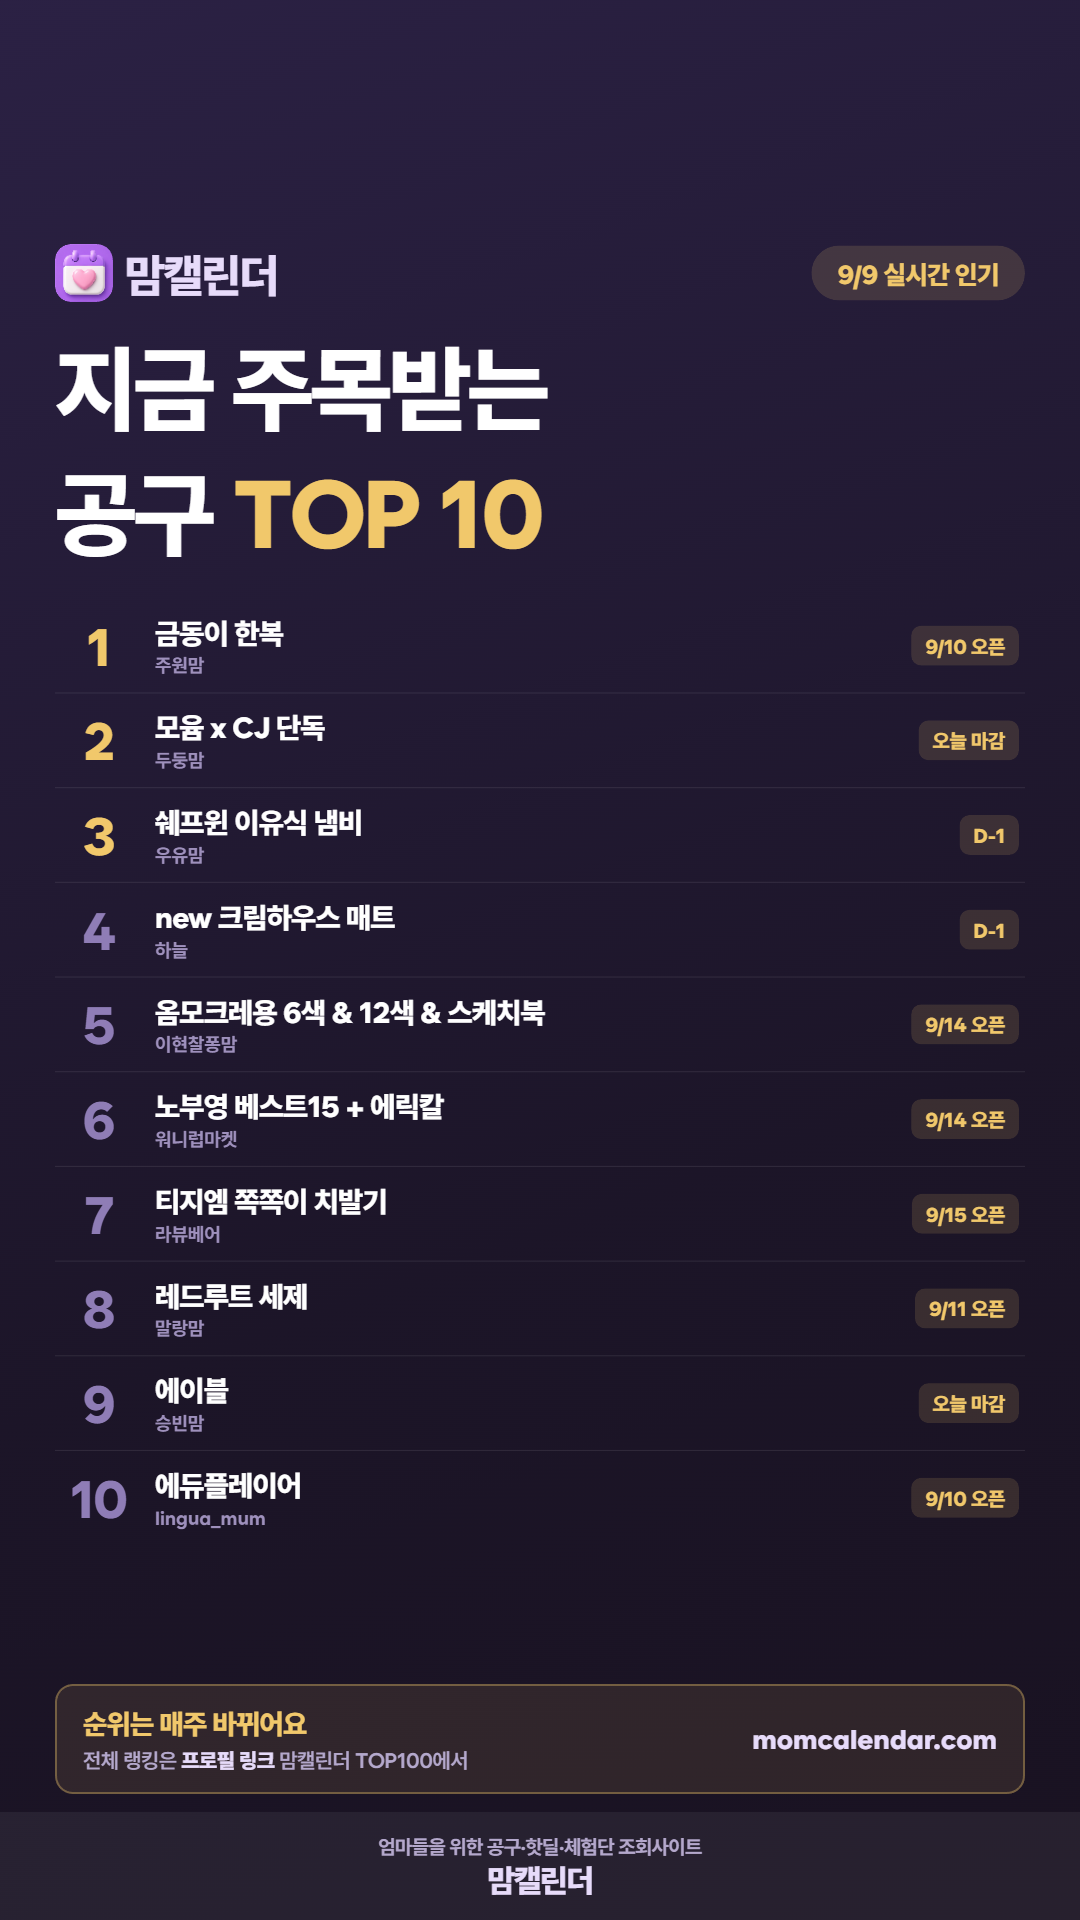
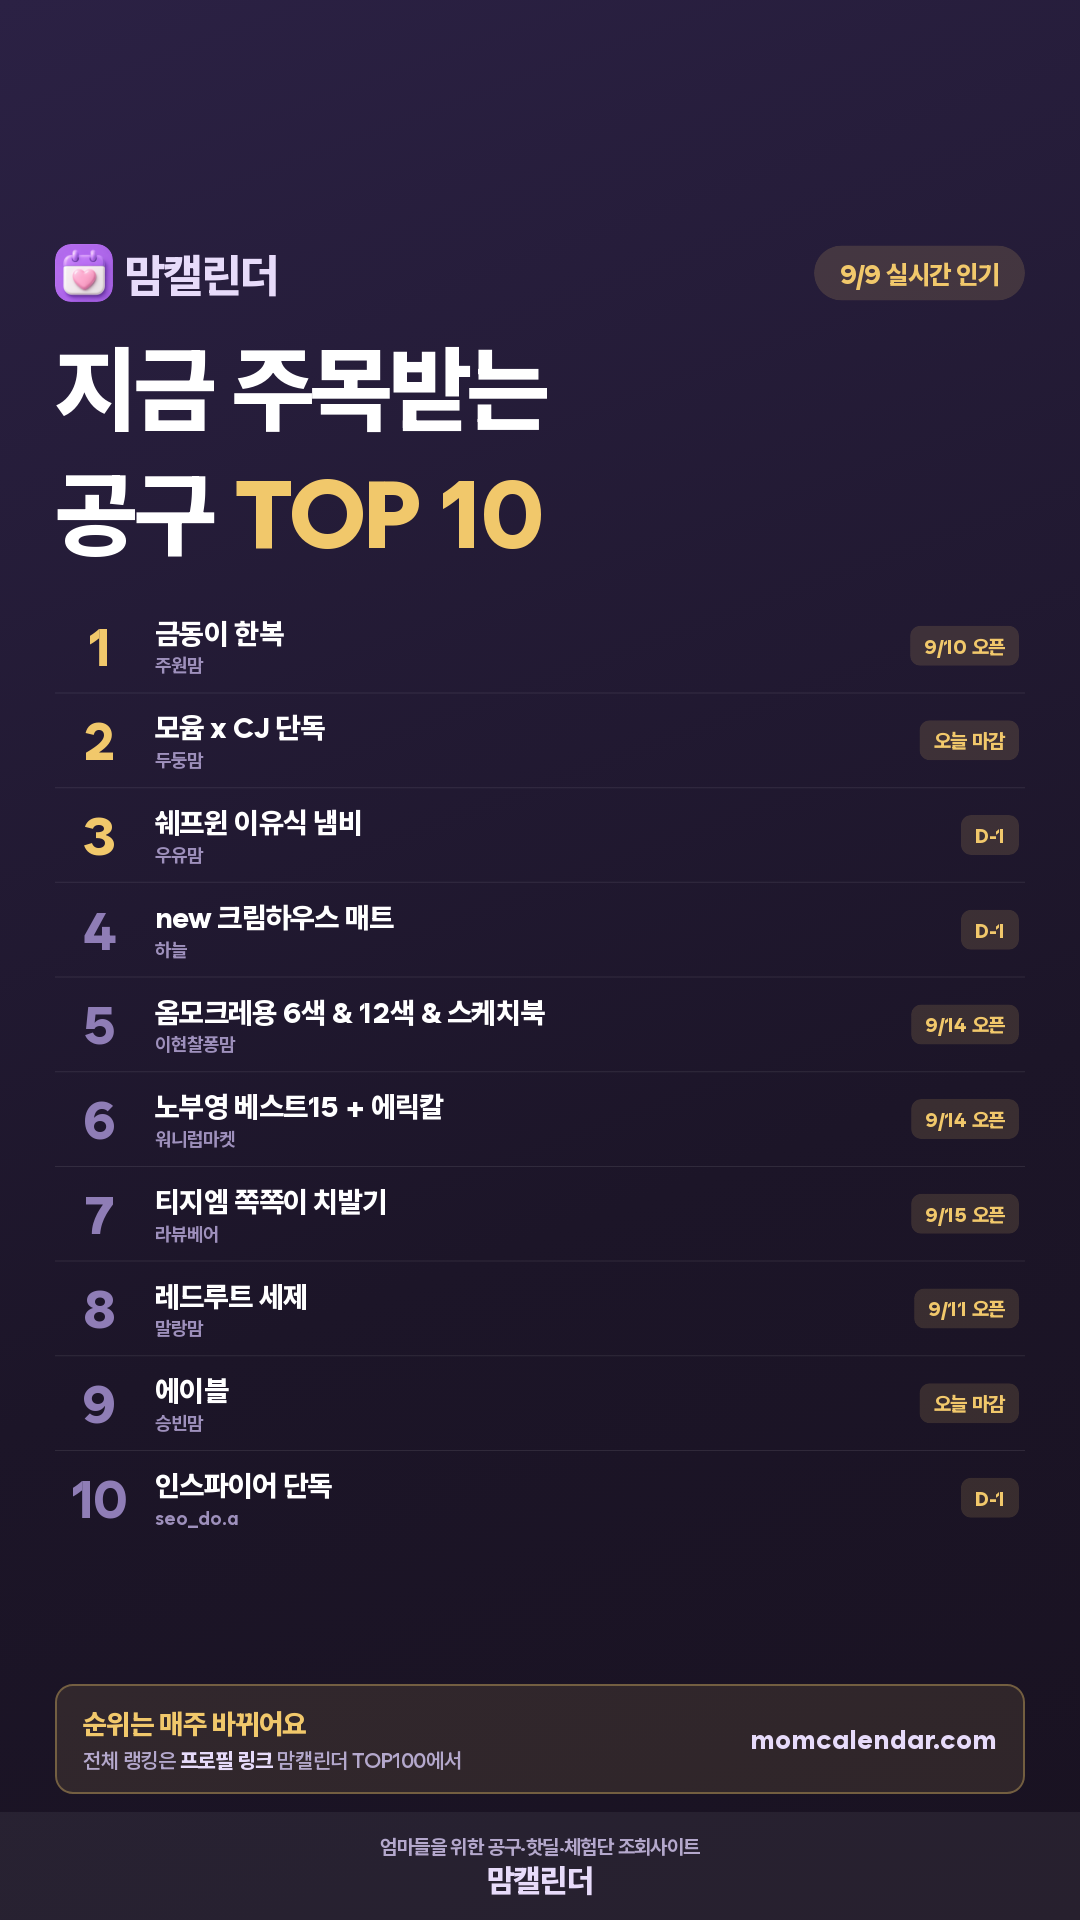
아침 인스타 카드 (2026-09-07)

diff --git a/daily/2026-09-09.html b/daily/2026-09-09.html
@@ -25,7 +25,7 @@ textarea{width:100%;height:260px;border:1px solid #E3DCEF;border-radius:10px;pad
   <div class="card"><img src="./2026-09-09.png" alt="오늘 공구 카드"></div>
   <a class="btn" href="./2026-09-09.png" download="momcal_20260909.png">사진 저장</a>
   <div class="card">
-    <textarea id="cap" readonly>순위는 데이터가 정했어요, 저도 1위 보고 놀랐어요
+    <textarea id="cap" readonly>요즘 뭐가 인기인지 궁금하면 이 10개만 보세요
 
 🏆 이번 주 인기 공구 TOP 10
 (맘캘린더 방문자 조회·찜 기준)
@@ -39,7 +39,7 @@ textarea{width:100%;height:260px;border:1px solid #E3DCEF;border-radius:10px;pad
 7. 티지엠 쪽쪽이 치발기 — 라뷰베어 (9/15 오픈)
 8. 레드루트 세제 — 말랑맘 (9/11 오픈)
 9. 에이블 — 승빈맘 (오늘 마감)
-10. 에듀플레이어 — lingua_mum (9/10 오픈)
+10. 인스파이어 단독 — seo_do.a (D-1)
 
 🔓 오늘 오픈
 · 아토케어 침구청소기 — 이현맘 @ihyeon_mom_251125
@@ -75,6 +75,7 @@ textarea{width:100%;height:260px;border:1px solid #E3DCEF;border-radius:10px;pad
 · 라임프루트 과일선물세트 — 곰부인네
 · 러베 모음전 — 소이맘
 · 럭키밤비네 — 달콤맘
+· 레벨릭스 워크북 — 애프리
 · 리턴효소 — 아디언니
 · 리틀홈헬퍼 — 해피엘
 · 마시는샐러드 + 기획선물세트 — __a.fit.__
@@ -107,17 +108,15 @@ textarea{width:100%;height:260px;border:1px solid #E3DCEF;border-radius:10px;pad
 · 아마존 1위 뉴웨이 브러쉬 — 살림가게
 · 아미 맨투맨 &amp; 후드티 &amp; 롱 슬리브 — mimiwor
 · 아타 ATA 의류 — 사니엘블랑
-· 어썸김치 11차 — 어썸테이블
-· 에르메스 추석 선물세트 — 도담맘
-· 에어소파 — 온이프홈
-…외 37건
+· 어스메이드 아기턱받이 — hahaha__hayun
+…외 40건
 
 순위에 없는 공구가 궁금하면 사이트에서 검색해보세요
 
 ━━━━━━━━━━━━━━
 
-💜 팔로우 + 📌 저장 조합이면
-공구 놓칠 일이 없어요
+📌 저장해두면 필요할 때 바로 꺼내 볼 수 있어요
+💜 팔로우하면 내일 일정도 놓치지 않아요
 
 공구 찾을 땐 프로필 링크의 맘캘린더 사이트에서
 검색 한 번이면 끝나요
@@ -131,7 +130,7 @@ textarea{width:100%;height:260px;border:1px solid #E3DCEF;border-radius:10px;pad
 
 ⚠ 공구 일정은 판매자 사정에 따라 변경·조기마감될 수 있어요.
 
-#맘캘린더 #공구일정 #육아공구 #9월9일공…</textarea>
+#맘캘린더 #공구일정 #육아공구…</textarea>
     <div class="meta">2151자</div>
     <button class="btn btn2" onclick="cp('cap','캡션')">캡션 복사</button>
   </div>
@@ -164,10 +163,10 @@ https://open.kakao.com/o/gr2kJhCh
 
 ─────────────
 
-9월 9일(수) 공구 일정이에요. 오늘 오픈하는 119건을 한 번에 모았어요.
+9월 9일(수) 공구 일정이에요. 오늘 오픈하는 121건을 한 번에 모았어요.
 오늘 마감되는 공구도 102건 있으니 놓치지 마세요.
 
-■ 오늘 시작하는 공구 119건
+■ 오늘 시작하는 공구 121건
 
 [육아]
 · 교과도형 — ming_9.3 (~9/12 마감)
@@ -178,6 +177,7 @@ https://open.kakao.com/o/gr2kJhCh
 · 똑서 똑똑한 독서습관 — 소민맘 (~9/15 마감)
 · 러베 모음전 — 소이맘 (~9/12 마감)
 · 럭키밤비네 — 달콤맘 (~9/12 마감)
+· 레벨릭스 워크북 — 애프리 (~9/11 마감)
 · 리틀홈헬퍼 — 해피엘 (~9/12 마감)
 · 마이 차일드애플 — master_yewon (~9/12 마감)
 · 맘스미 아기간식 — 뽀민맘 (~9/11 마감)
@@ -193,12 +193,13 @@ https://open.kakao.com/o/gr2kJhCh
 · 보아르 휴대용 분유포트 — 푸푸네집 (~9/12 마감)
 · 봄달 블랭킷 2차 — 소소하우스 (~9/12 마감)
 · 블루독 FW — 두둥맘 (~9/11 마감)
-· 블루독 베이비 fw — dudungmom (~9/13 마감)
+· 블루독 베이비 fw — 두둥맘 (~9/13 마감)
 · 블루래빗 두뇌발달 20종 — 밤줌미네 (~9/10 마감)
 · 빌리 가을신상 — 다겨미네 (~9/12 마감)
 · 슈메르 미끄럼 가득 유아 양말 — 건이맘 (~9/12 마감)
 · 실내복 골라담기 — eeodlf (~9/13 마감)
 · 아가드 필수 안전템 모음 — 둘찌맘 (~9/12 마감)
+· 어스메이드 아기턱받이 — hahaha__hayun (~9/13 마감)
 · 올유베베 가을옷 — 리아곰 (~9/12 마감)
 · 이지드로잉 카메라 — 선유맘 (~9/14 마감)
 · 일프로 아동복 가을신상 — 태브로맘 (~9/12 마감)

diff --git a/daily/index.html b/daily/index.html
@@ -1,1 +1,1 @@
-<!DOCTYPE html><meta charset="UTF-8"><meta http-equiv="refresh" content="0;url=./2026-09-08.html">
+<!DOCTYPE html><meta charset="UTF-8"><meta http-equiv="refresh" content="0;url=./2026-09-09.html">
